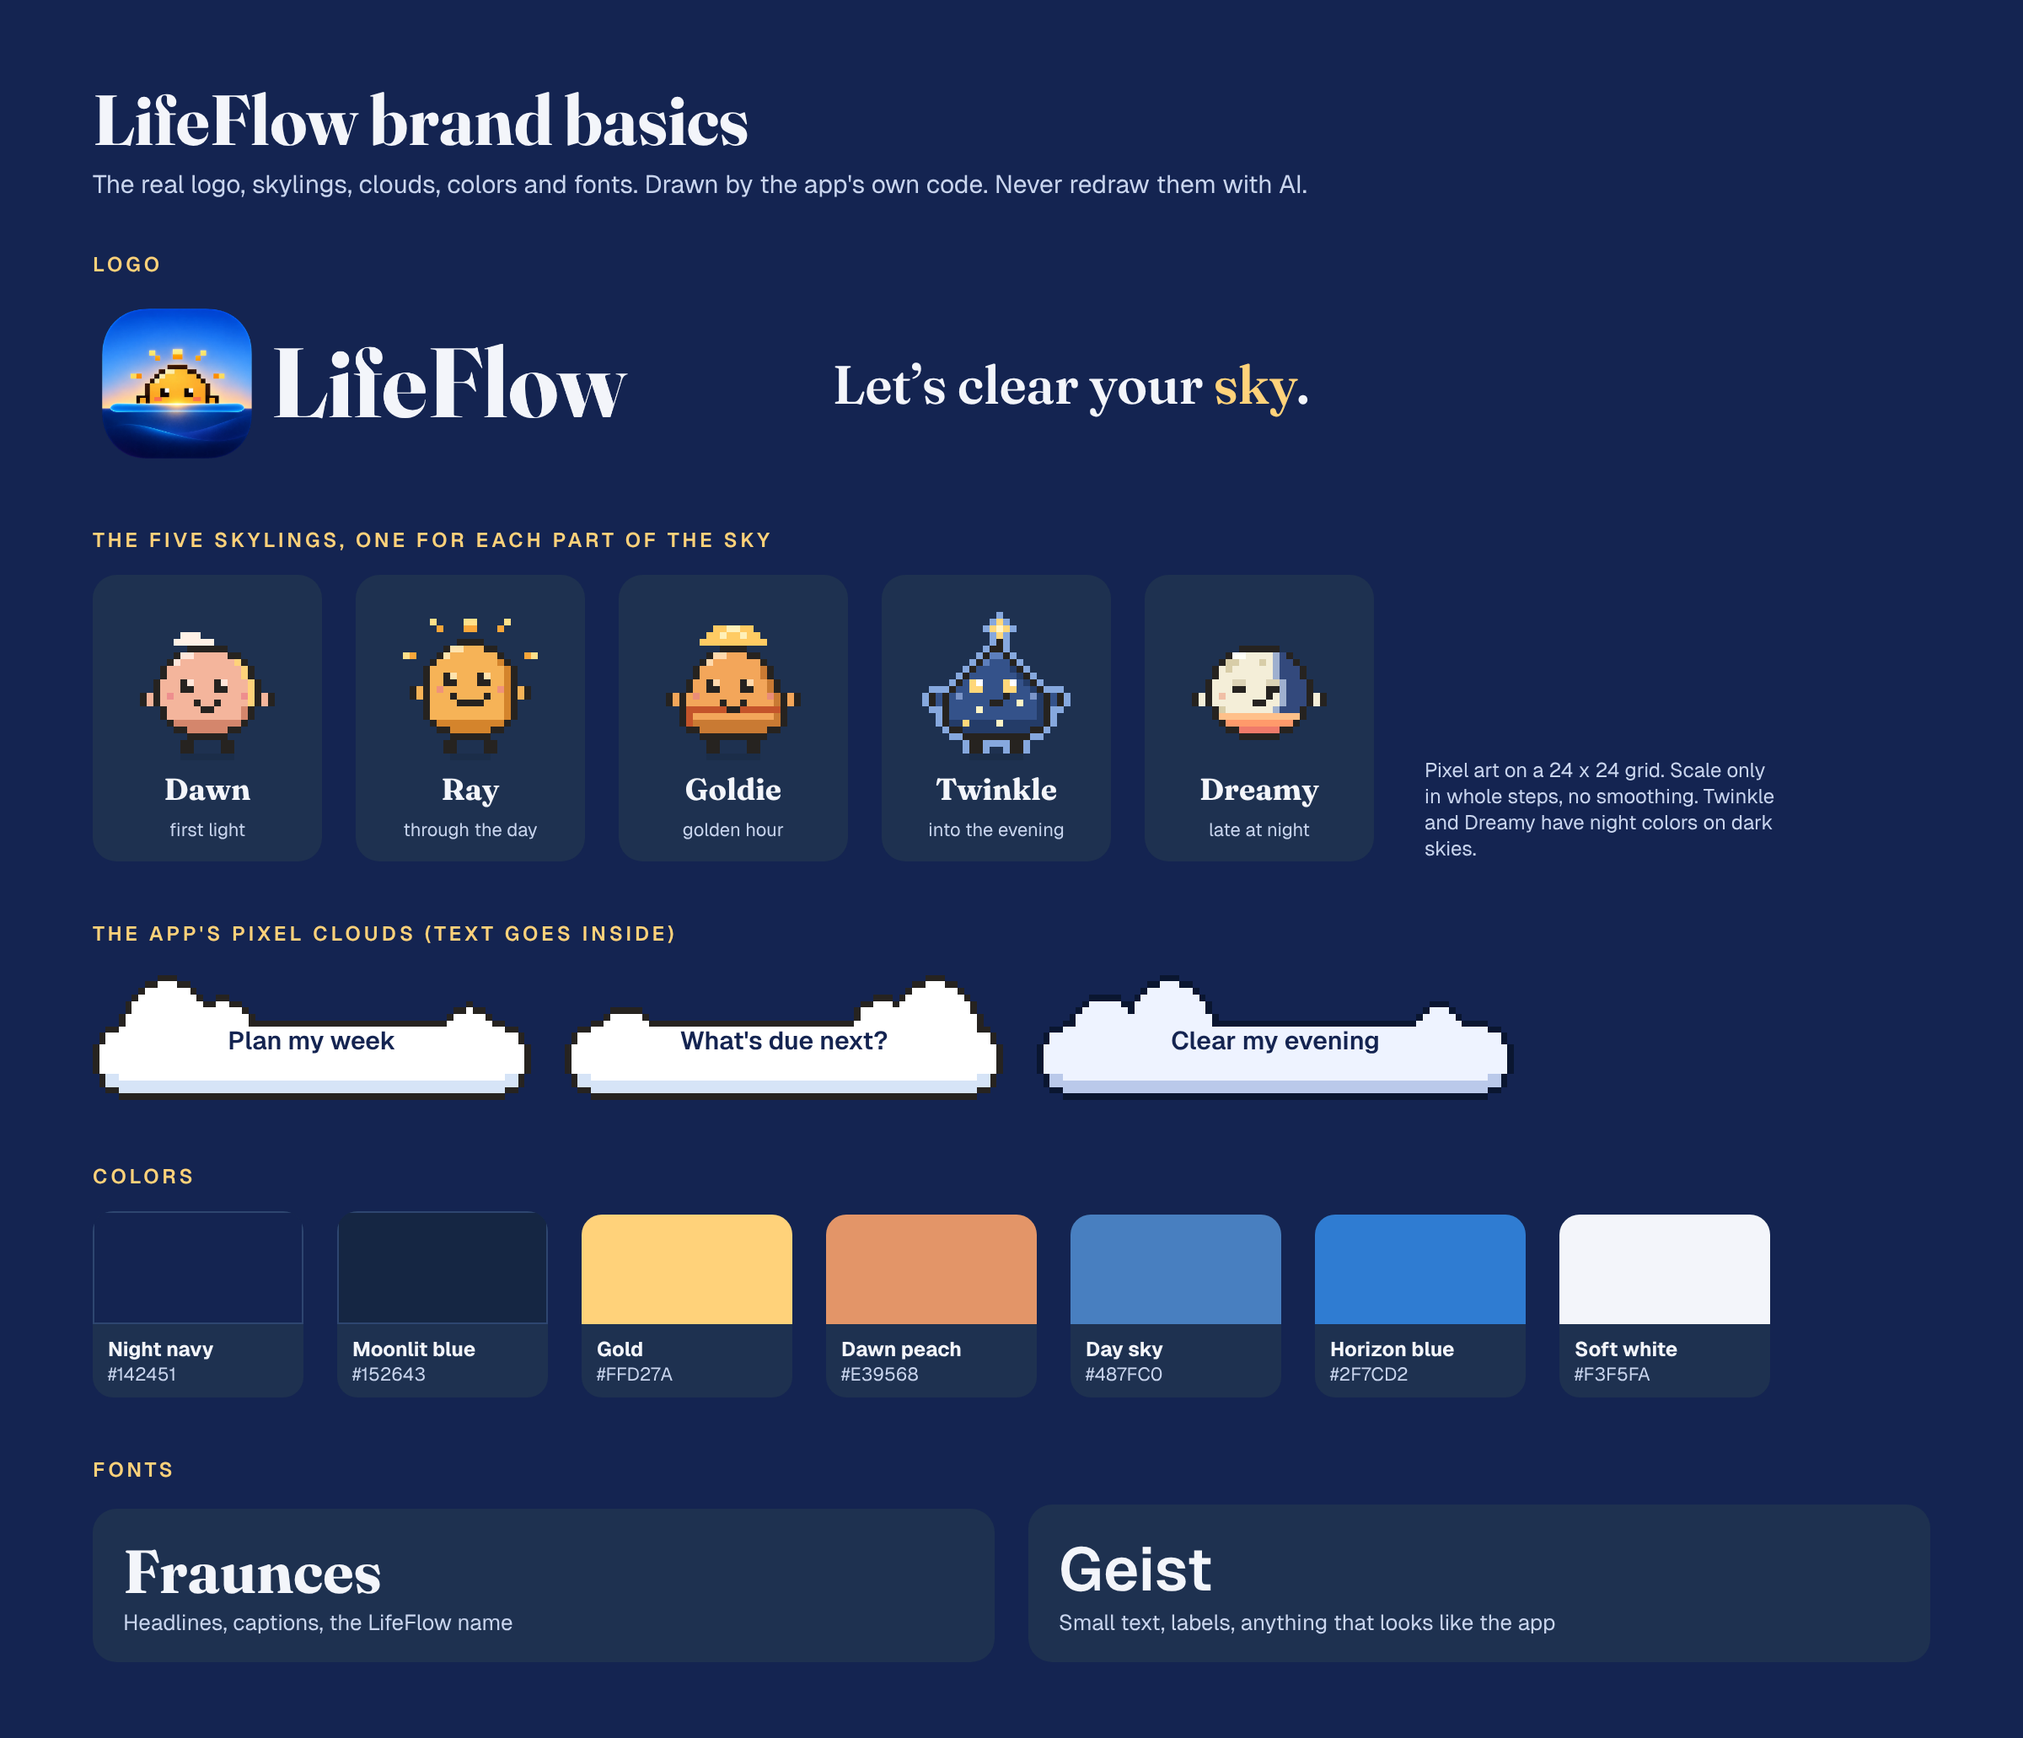
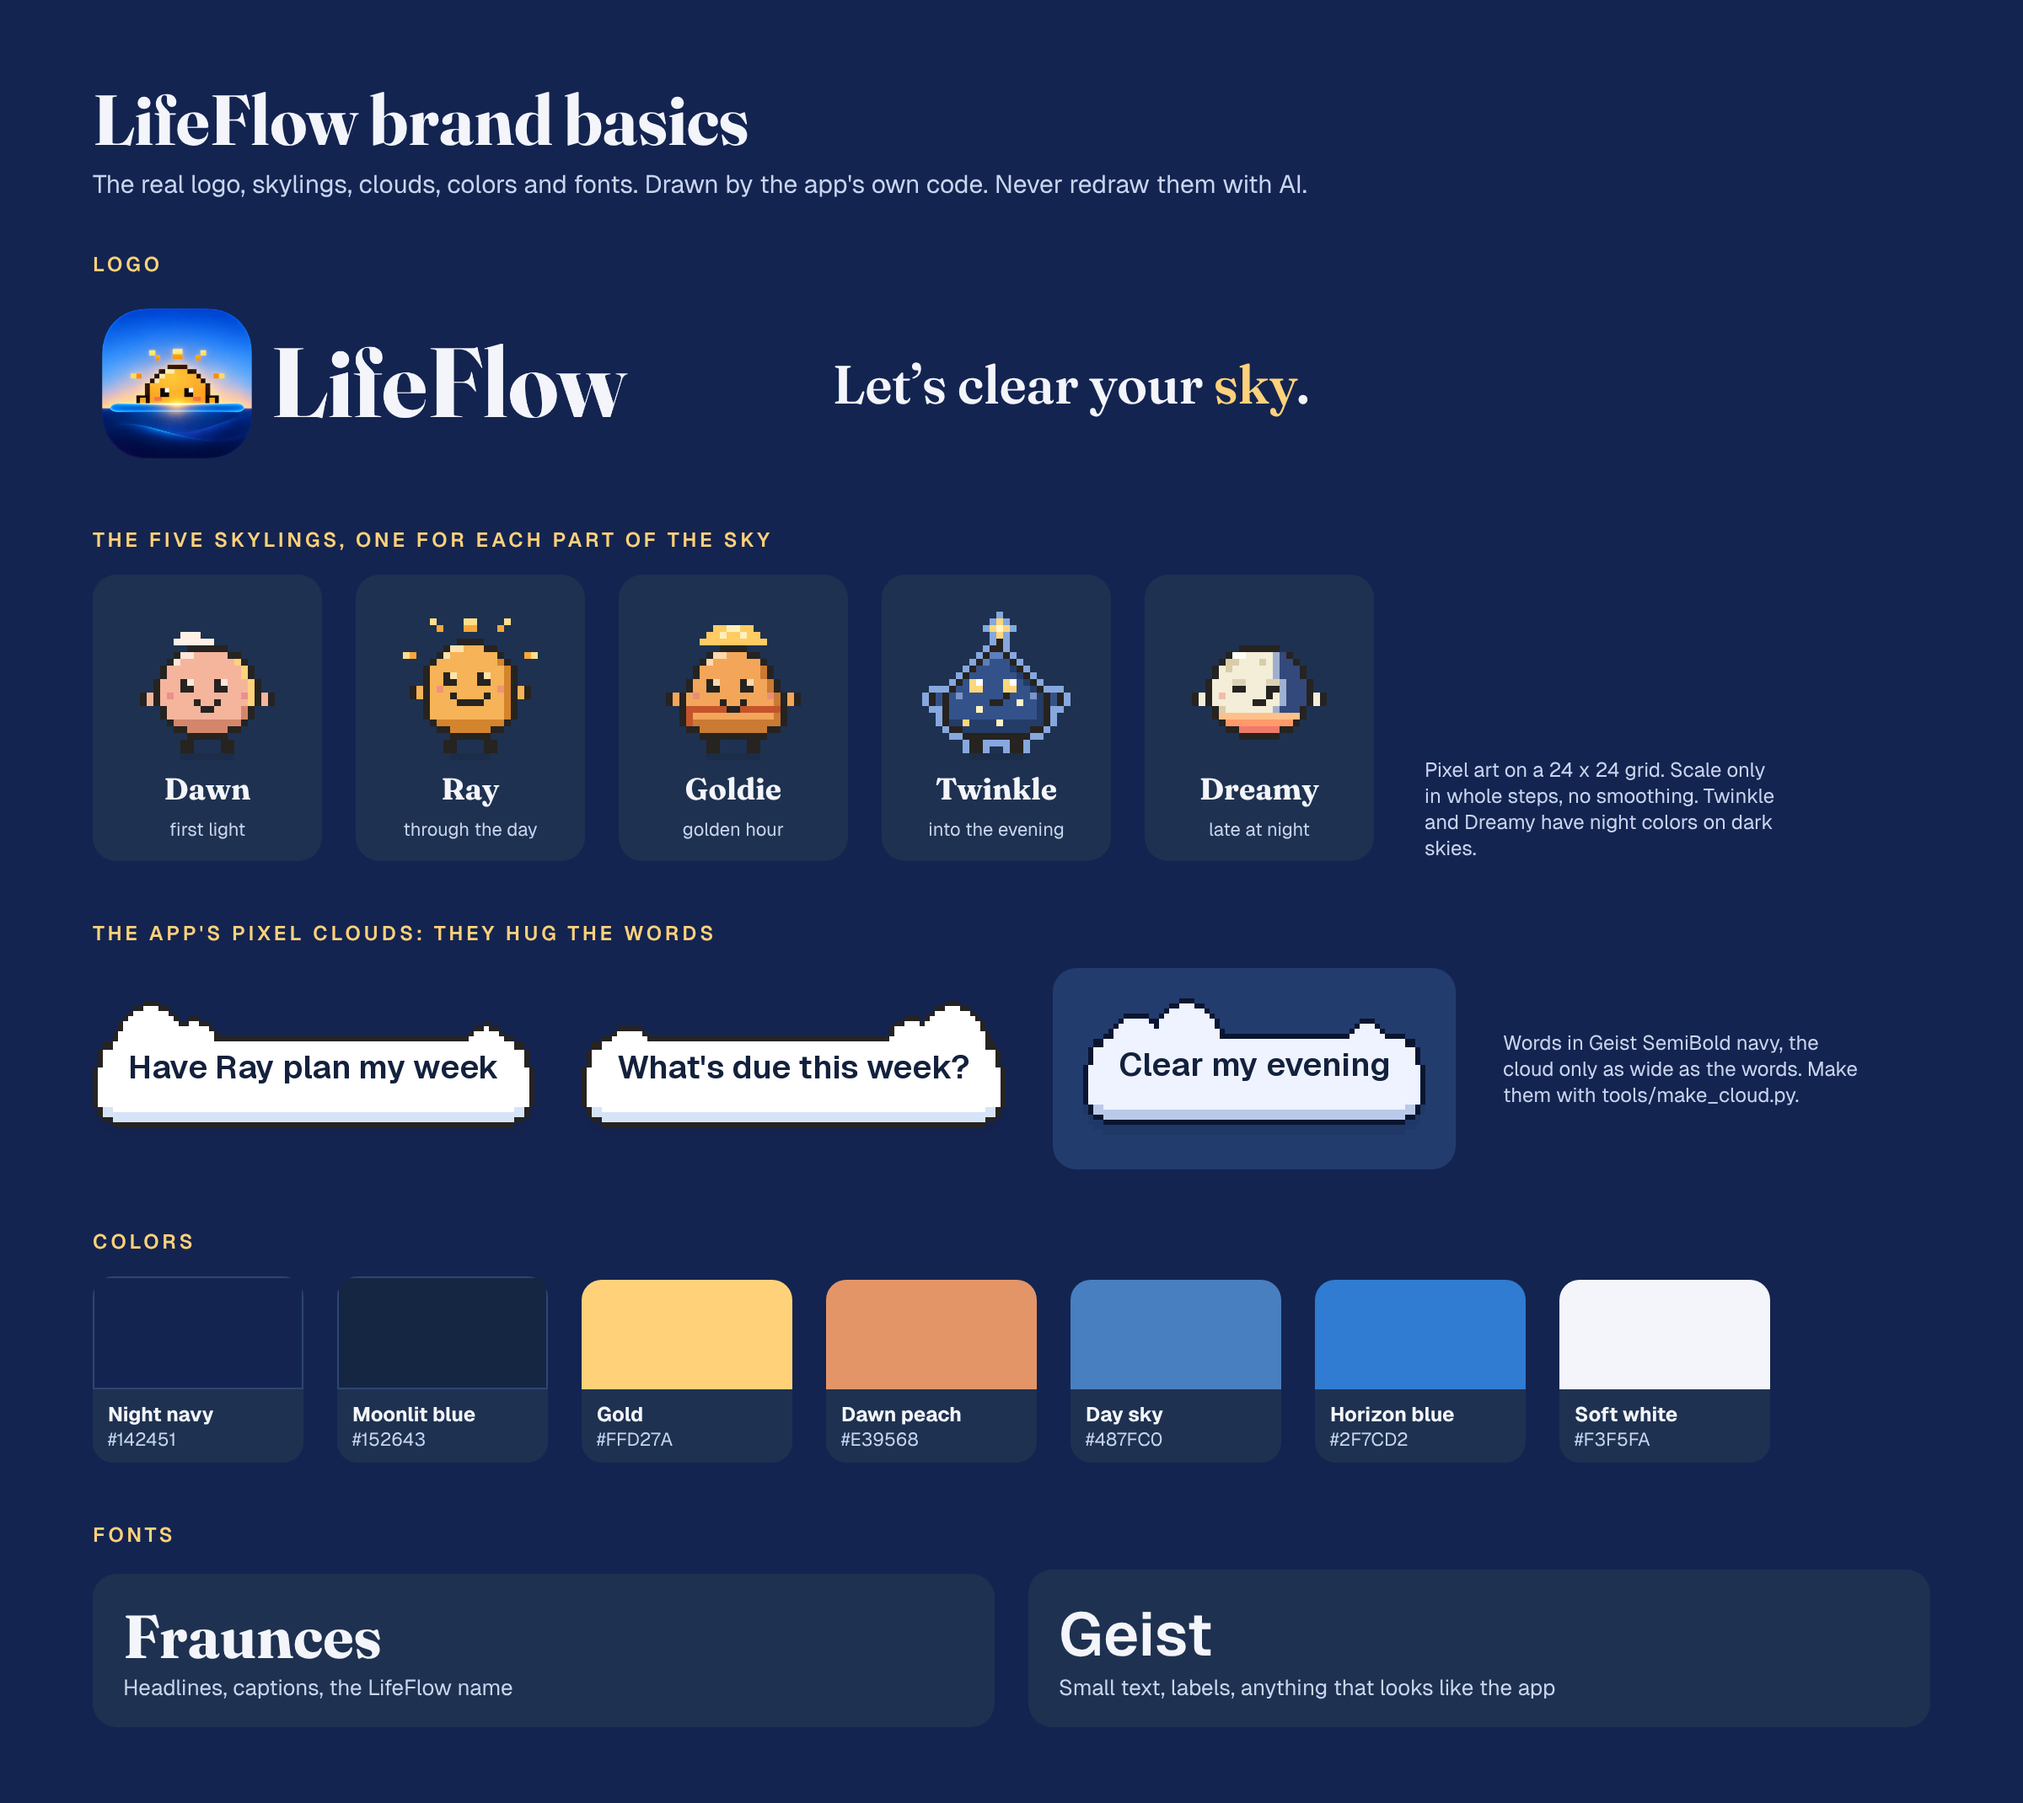
Brand kit: clouds made exactly like the app (make_cloud.py from the app's tiles and CSS: words hug, Geist SemiBold navy, soft shadow); brand sheet redone
Claude-Session: https://claude.ai/code/session_01Mhcz6CyarVMRum5SxqLMqM

diff --git a/marketing/brand-kit/editor-pack/sheet.html b/marketing/brand-kit/editor-pack/sheet.html
@@ -21,10 +21,9 @@ h2{font-family:Geist;font-weight:600;font-size:24px;letter-spacing:4px;text-tran
 <div class="sk"><img src="Dreamy-night.png"><b>Dreamy</b><span>late at night</span></div>
 <div style="color:#C9D5EE;font-size:24px;max-width:420px;margin-left:20px">Pixel art on a 24 x 24 grid. Scale only in whole steps, no smoothing. Twinkle and Dreamy have night colors on dark skies.</div>
 </div></div>
-<div class="sec"><h2>The app's pixel clouds (text goes inside)</h2><div class="row">
-<div class="cloud"><img src="pixel-cloud-1-day.png"><p>Plan my week</p></div>
-<div class="cloud"><img src="pixel-cloud-2-day.png"><p>What's due next?</p></div>
-<div class="cloud"><img src="pixel-cloud-3-night.png"><p>Clear my evening</p></div>
+<div class="sec"><h2>The app's pixel clouds: they hug the words</h2><div class="row" style="align-items:center;gap:56px">
+<img src="c1.png"><img src="c2.png"><div style="background:#233C6E;border-radius:28px;padding:30px 36px"><img src="c3.png"></div>
+<div style="color:#C9D5EE;font-size:24px;max-width:430px">Words in Geist SemiBold navy, the cloud only as wide as the words. Make them with tools/make_cloud.py.</div>
 </div></div>
 <div class="sec"><h2>Colors</h2><div class="row">
 <div class="sw"><div style="background:#142451;border:2px solid #2E4670"></div><p><b>Night navy</b>#142451</p></div>

diff --git a/marketing/brand-kit/lifeflow-brand/tools/make_cloud.py b/marketing/brand-kit/lifeflow-brand/tools/make_cloud.py
@@ -1,0 +1,56 @@
+"""Make a LifeFlow pixel cloud with words inside, exactly like the app's idea clouds.
+
+    python3 make_cloud.py "Plan my week" out.png [--shape 1|2|3] [--night] [--zoom 4]
+
+How the app draws them (skylings.css .lf-idea-cloud, cloud-tile.ts): one of three pixel tiles (48 x 21) stretched
+around the words like a CSS border-image, each tile pixel = 2 screen pixels; the words in Geist SemiBold 13 px,
+color #13213D, centered, allowed to sit under the puffs with 14 px kept clear at each end; the cloud is only as wide
+as the words; a soft shadow 4 px under it. --zoom scales the whole thing (4 = 4x the phone size, crisp for video).
+"""
+import argparse, json, os
+from PIL import Image, ImageDraw, ImageFont
+
+HERE = os.path.dirname(os.path.abspath(__file__))
+TILES = json.load(open(os.path.join(HERE, "tiles.json")))
+
+
+def make_cloud(text, shape=1, night=False, zoom=4):
+    s = TILES[f"tile-{shape}"]
+    T, R, B, L = s["top"], s["right"], s["bottom"], s["left"]
+    tile = Image.open(os.path.join(HERE, f"tile-{shape}-{'night' if night else 'day'}.png")).convert("RGBA")
+    font = ImageFont.truetype(os.path.join(HERE, "Geist-SemiBold.ttf"), round(13 * zoom))
+    tw = font.getlength(text) / zoom                      # the words' width in phone pixels
+    W = max(tw + 28, 2 * (L + R))                         # as wide as the words, never narrower than the ends
+    H = 2 * T + 24 + 2 * B                                # one line: 18 + 24 + 10 = 52 px
+    Z = zoom
+    out_w, out_h = round(W * Z), round(H * Z)
+    cloud = Image.new("RGBA", (out_w, out_h), (0, 0, 0, 0))
+    sx = [0, L, 48 - R, 48]; sy = [0, T, 21 - B, 21]
+    dx = [0, round(2 * L * Z), out_w - round(2 * R * Z), out_w]; dy = [0, round(2 * T * Z), out_h - round(2 * B * Z), out_h]
+    for r in range(3):
+        for c in range(3):
+            w, h = dx[c + 1] - dx[c], dy[r + 1] - dy[r]
+            if w <= 0 or h <= 0: continue
+            part = tile.crop((sx[c], sy[r], sx[c + 1], sy[r + 1])).resize((w, h), Image.NEAREST)
+            cloud.alpha_composite(part, (dx[c], dy[r]))
+    # the soft shadow under it
+    pad = round(6 * Z)
+    img = Image.new("RGBA", (out_w, out_h + pad), (0, 0, 0, 0))
+    shadow = Image.new("RGBA", cloud.size, (19, 33, 61, 0)); shadow.putalpha(cloud.getchannel("A").point(lambda a: round(a * 0.12)))
+    img.alpha_composite(shadow, (0, round(4 * Z)))
+    img.alpha_composite(cloud, (0, 0))
+    # the words: centered, in the line box that starts 20 px down (18 px top + 2 px padding), 16.25 px tall
+    d = ImageDraw.Draw(img)
+    d.text((out_w / 2, (20 + 16.25 / 2) * Z), text, font=font, fill=(19, 33, 61, 255), anchor="mm")
+    return img
+
+
+if __name__ == "__main__":
+    ap = argparse.ArgumentParser()
+    ap.add_argument("text"); ap.add_argument("out")
+    ap.add_argument("--shape", type=int, default=1, choices=[1, 2, 3])
+    ap.add_argument("--night", action="store_true")
+    ap.add_argument("--zoom", type=float, default=4)
+    a = ap.parse_args()
+    make_cloud(a.text, a.shape, a.night, a.zoom).save(a.out)
+    print("saved", a.out)

diff --git a/marketing/brand-kit/lifeflow-brand/SKILL.md b/marketing/brand-kit/lifeflow-brand/SKILL.md
@@ -20,8 +20,9 @@ Only the basics below are fixed.
    (golden hour), Twinkle (into the evening), Dreamy (late at night). Stills in `assets/skylings/` (night versions of
    Twinkle and Dreamy for dark skies) and moving frames in `assets/skylings_animated/` (idle, wave, celebrate, think; one
    frame every 0.18 s, looped). Five only: never six, never Noon or Dusk. Never redraw, restyle or AI-generate them.
-3. **Pixel clouds:** the app's own idea clouds in `assets/clouds/` (three shapes, day and night). Short text goes inside
-   in navy. Stretch only the flat middle, never the puffs.
+3. **Pixel clouds with words:** make them ONLY with `tools/make_cloud.py "Your words" out.png [--shape 1|2|3] [--night] [--zoom 4]`.
+   It draws them exactly like the app: the cloud hugs the words, the words are Geist SemiBold navy `#13213D`, a soft
+   shadow sits under it. Never type words over a cloud picture yourself. See `assets/clouds/example-cloud-day.png`.
 4. **Pixel art scaling:** skylings and clouds scale only in whole steps with no smoothing (nearest neighbor), so every
    pixel stays sharp.
 5. **Fonts:** Fraunces for headlines, captions and the name; Geist for small text and anything that looks like the app

diff --git a/marketing/brand-kit/lifeflow-brand/references/look.md b/marketing/brand-kit/lifeflow-brand/references/look.md
@@ -37,6 +37,8 @@ Transparent PNGs drawn by the app's own code, at 20 screen pixels per art pixel.
 multiples, with no smoothing ("nearest neighbor"), so the pixels stay crisp. Use the night versions of Twinkle and
 Dreamy on dark or night backgrounds. The pixel style is the brand: never smooth, redraw or AI-generate them.
 
-## Pixel clouds (`assets/clouds/`)
-The app's own idea clouds (three shapes, day and night). Put short text inside them (a few words, Geist or Fraunces in
-navy), like the clouds on the app's Today screen. Stretch only the flat middle part, never the puffs.
+## Pixel clouds (`assets/clouds/`, `tools/make_cloud.py`)
+The app's own idea clouds: three shapes, day and night. In the app the cloud is only as wide as its words, the words
+are Geist SemiBold in navy `#13213D` and sit right inside the cloud (they may run under the puffs), and a soft navy
+shadow sits 4 px under it. Use `tools/make_cloud.py` for any words so it always looks like the app. The plain cloud
+pictures are for clouds without words.
